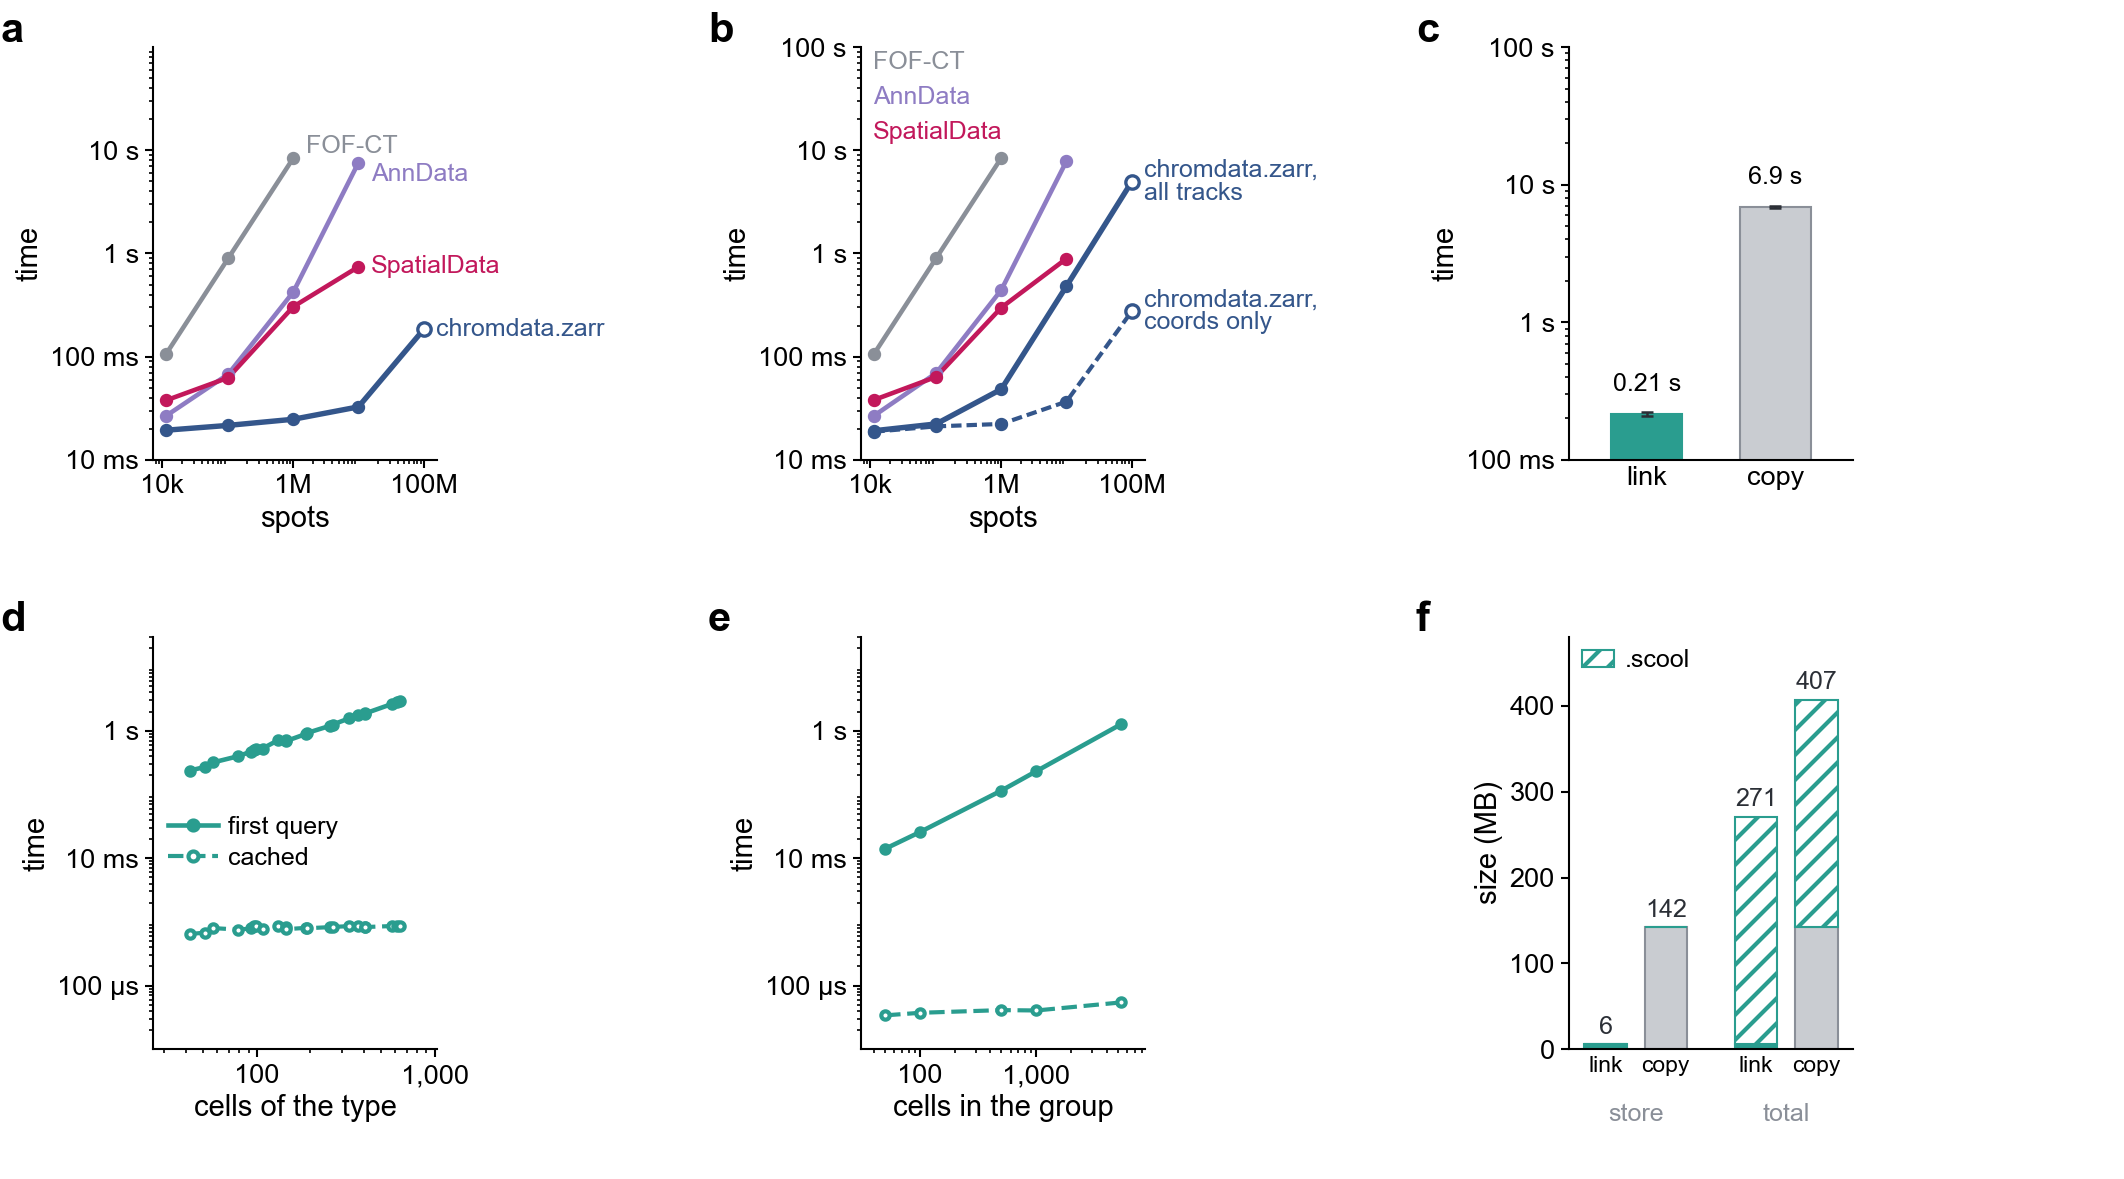
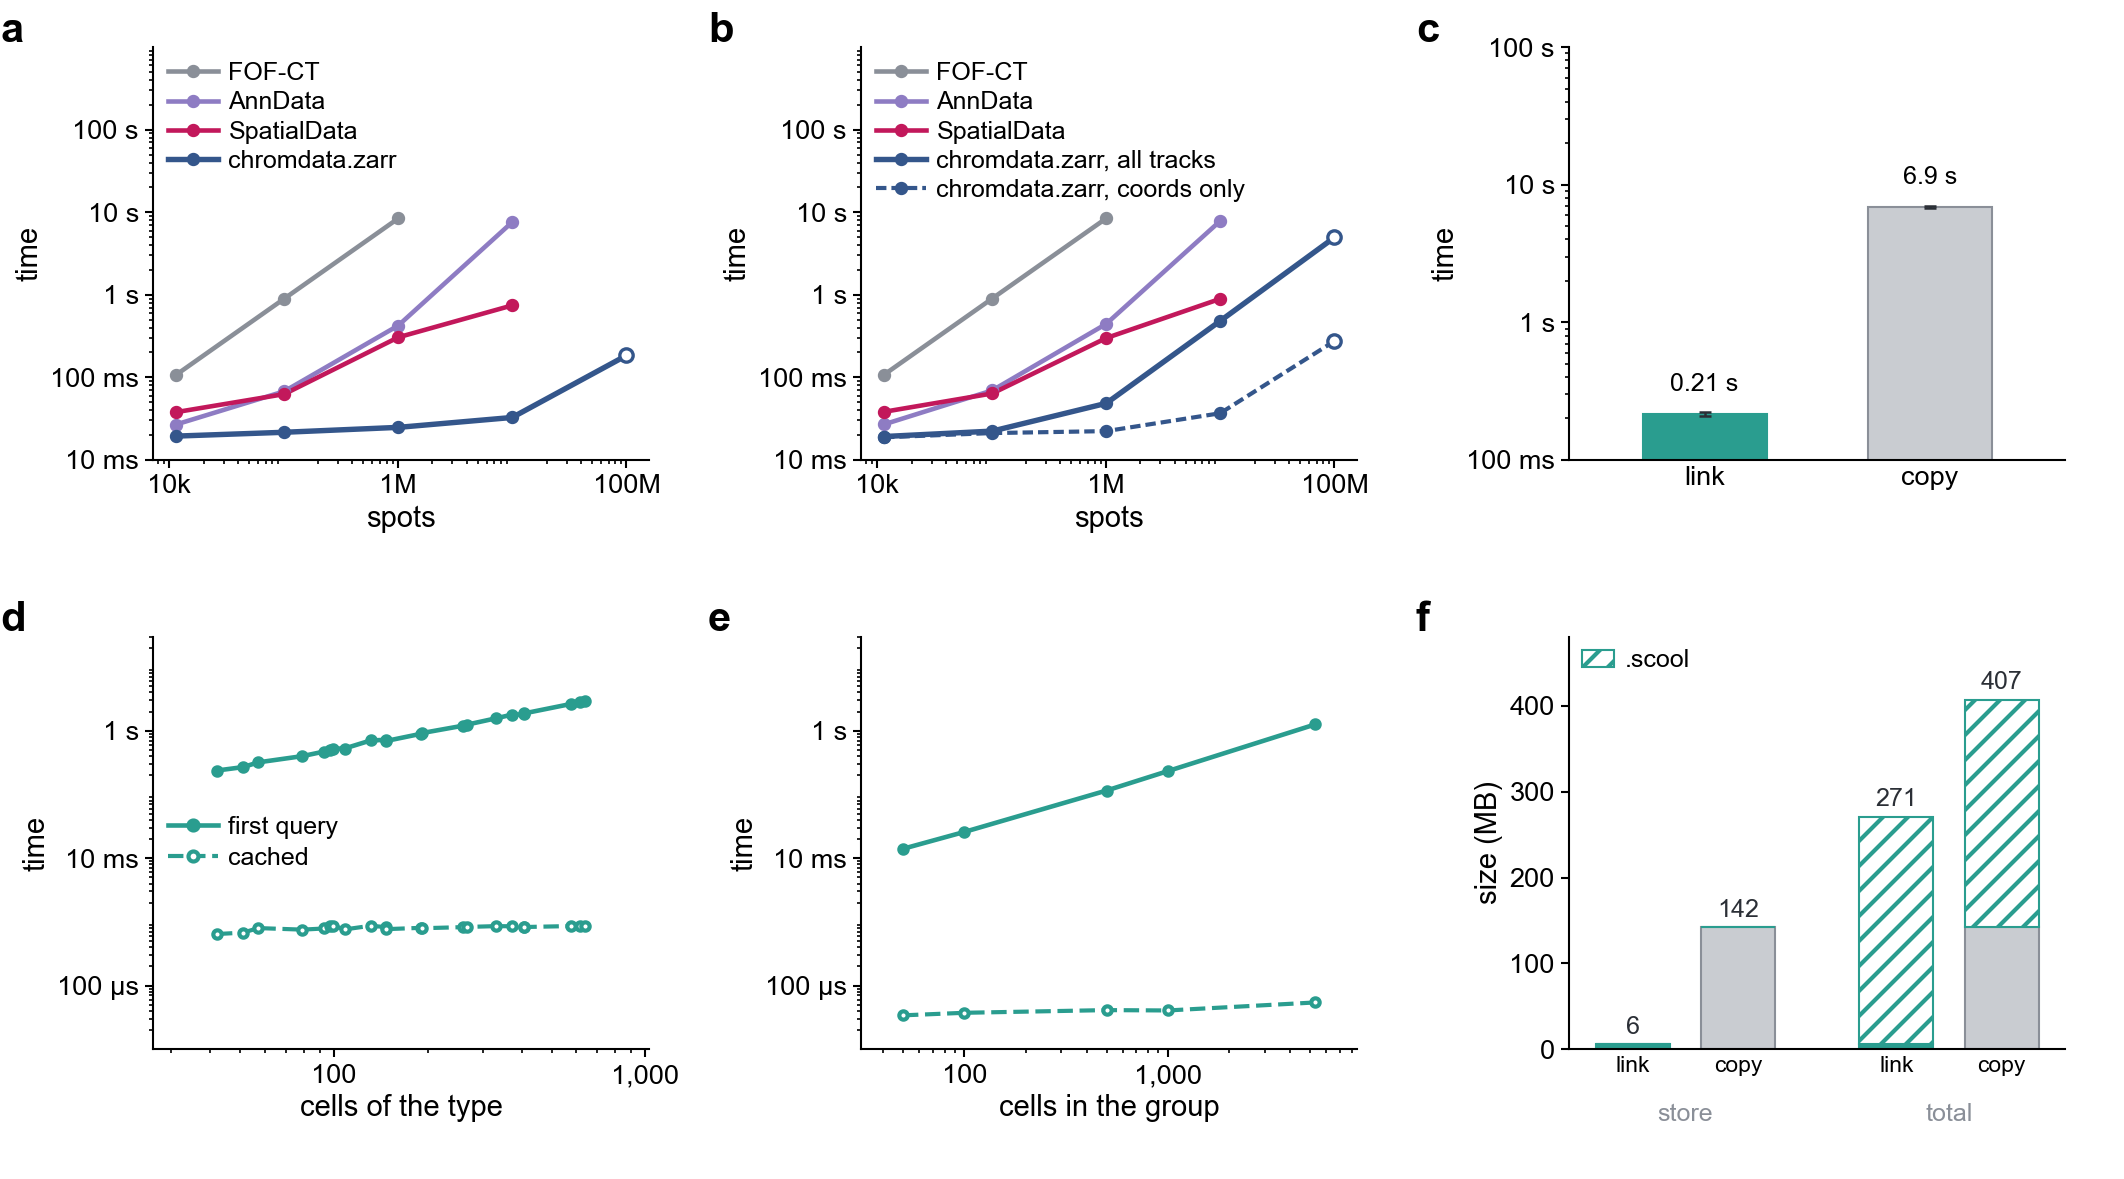
Supplementary Fig. 1: 42-mm axes; a, b name their series in a key above the data (up to 1,000 s)
by_format takes FORMAT_AX_W and FORMAT_KEY_INSIDE (defaults: the full manuscript's Supp. Fig. S1 unchanged).

diff --git a/manuscripts/full/figures/fig2/make_figS_fig2.py b/manuscripts/full/figures/fig2/make_figS_fig2.py
@@ -50,6 +50,10 @@ AX_DY = 7.5
 ROW1, ROW1_H = 1.0, 35.0
 ROW2, ROW2_H = 52.0, 40.0
 ROW3, ROW3_H = 105.0, 34.0
+# by_format: axes width (mm) and where the series are named -- at their ends (this figure) or in a key at the top
+# left (the Brief Communication's Supplementary Fig. 1, which sets both)
+FORMAT_AX_W = 24.0
+FORMAT_KEY_INSIDE = False
 
 
 def style():
@@ -94,7 +98,7 @@ def head(fig, x0, y0, letter, title, sub=None):
 def by_format(fig, x0, y0, letter, key, title, sub, acc):
     """One query across formats: open / load the file, then the query (c_access.json)."""
     head(fig, x0, y0, letter, title, sub)
-    ax = F.ax_at(fig, x0 + 13, y0 + AX_DY, 24, ROW1_H)
+    ax = F.ax_at(fig, x0 + 13, y0 + AX_DY, FORMAT_AX_W, ROW1_H)
     items = []
     for series, lab, col, _ in F.BASELINES:
         if series in acc["base"]:
@@ -116,6 +120,22 @@ def by_format(fig, x0, y0, letter, key, title, sub, acc):
     ax.set_ylim(1e-2, top)
     F.decades(ax, 1e-2, top, axis="y")
     ticks(ax, "y", [1e-2, 1e-1, 1e0, 1e1] + ([1e2] if key == "chrom" else []), "time")
+    if FORMAT_KEY_INSIDE:   # every series in a key at the top left, above the data: both panels up to 1,000 s
+        ax.set_ylim(1e-2, 1e3)
+        F.decades(ax, 1e-2, 1e3, axis="y")
+        ticks(ax, "y", [1e-2, 1e-1, 1e0, 1e1, 1e2], "time")
+        hs, labs = [], []
+        for series, lab, col, _ in F.BASELINES:
+            if series in acc["base"]:
+                hs.append(Line2D([], [], color=col, marker="o", ms=2.2, lw=1.1)); labs.append(lab)
+        hs.append(Line2D([], [], color=F.INDIGO, marker="o", ms=2.2, lw=1.3))
+        labs.append("chromdata.zarr" + (", all tracks" if key == "chrom" else ""))
+        if key == "chrom":
+            hs.append(Line2D([], [], color=F.INDIGO, ls=(0, (2.5, 1.2)), marker="o", ms=2.2, lw=1.0))
+            labs.append("chromdata.zarr, coords only")
+        ax.legend(hs, labs, loc="upper left", frameon=False, fontsize=6, handlelength=2.0, handletextpad=0.4,
+                  labelspacing=0.25, borderaxespad=0.2)
+        return
     if key == "chrom":      # the chromdata.zarr lines cross the baselines' ends: list those top left
         base = [it for it in items if not it[2].startswith("chromdata")]
         for i, (_, _, lab, col) in enumerate(base):

diff --git a/manuscripts/nmeth-bc/figures/make_supp_access.py b/manuscripts/nmeth-bc/figures/make_supp_access.py
@@ -13,8 +13,8 @@ Supplementary Fig. 2, which keeps what the linked maps are used for:
   e  the same for random groups on chr1
   f  on-disk size, linked vs copied (decimal MB)
 
-Grid (mm, 180 x 100): three 60-mm columns and two rows, every axes 24 x 35 mm (``by_format``'s), 13 mm right of its
-letter; no titles in the panels (their subjects are in the legend).
+Grid (mm, 180 x 100): three 60-mm columns and two rows, every axes 42 x 35 mm, 13 mm right of its letter; a and b
+name their series in a key at the top left; no titles in the panels (their subjects are in the legend).
 
     python manuscripts/nmeth-bc/figures/make_supp_access.py      # -> supp_access.pdf / supp_access.png
 """
@@ -37,7 +37,7 @@ import make_figS_fig2 as S  # noqa: E402
 F = S.F
 W, H = 180.0, 100.0
 # a 3 x 2 grid: columns 60 mm wide, every axes AX_W x AX_H (by_format's), the letter 13 mm left of its axes
-AX_W, AX_H = 24.0, S.ROW1_H
+AX_W, AX_H = 42.0, S.ROW1_H
 COLS = (0.0, 60.0, 120.0)
 ROWS = (1.0, 51.0)                       # letter y; the axes from ROW + S.AX_DY
 
@@ -128,6 +128,7 @@ def main() -> None:
     S.W, S.H = W, H
     F.W, F.H = W, H
     S.AX_DY = 3.0                                       # no title above the axes
+    S.FORMAT_AX_W, S.FORMAT_KEY_INSIDE = AX_W, True     # a, b as wide as the others, their series in a key
     S.head = lambda fig, x0, y0, letter, title=None, sub=None: F.label(fig, x0, y0, letter)
     S.style()
     acc = F.access()
